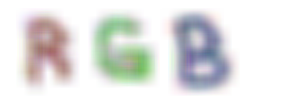
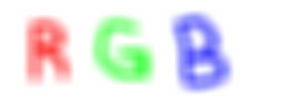
fixed the reading of values from when we read jpg's... we were using the color.RGBA() function, which returns uint32's, and we were doing a uint8 on them, but that is the WRONG way to do it... (hence we were getting weird output when reading from jpg's and saving as any format) we need to do uint8(v

diff --git a/mimage/imagematrix.go b/mimage/imagematrix.go
@@ -8,6 +8,11 @@ import "log"
 //
 type ImageMatrix [][]color.Color
 
+//
+// ConvolutionMatrix defines how we store our convolution matrices... 
+//
+type ConvolutionMatrix [][]uint8
+
 // GetKernelMatrix returns an ImageMatrix around the pixel (x,y) based on the size of the kernel we requested
 // eg. A GetKernelMatrix(5, 5, 1) will return an ImageMatrix that is built from the
 //     pixels: 4,4 5,4 6,4
@@ -59,7 +64,7 @@ func (im ImageMatrix) GetKernelMatrix(origX, origY, size int) ImageMatrix {
 //
 // ApplyConvolution apply's a convolution matrix to the current image.
 //
-func (im ImageMatrix) ApplyConvolution(cm [][]uint8) ImageMatrix {
+func (im ImageMatrix) ApplyConvolution(cm ConvolutionMatrix) ImageMatrix {
 	cmWidth := len(cm)
 	cmHeight := len(cm[0])
 

diff --git a/mimage/mimage.go b/mimage/mimage.go
@@ -37,7 +37,10 @@ func (i *MImage) ColourMatrix() ImageMatrix {
 			// Doing the below as JPG's have a color.YCbCr model, and we want
 			// to keep things in RGBA for consistency...
 			r, g, b, a := colour.RGBA()
-			column[y] = color.RGBA{uint8(r), uint8(g), uint8(b), uint8(a)}
+
+            // right shift the values by 8 bits as colour.RGBA() will return a uint32, and we want to keep the most 
+            // significant 8 bits NOT the least significant 8 bits 
+			column[y] = color.RGBA{uint8(r>>8), uint8(g>>8), uint8(b>>8), uint8(a>>8)}
 		}
 
 		colourMatrix = append(colourMatrix, column)

diff --git a/mods/gaussianBlur.go b/mods/gaussianBlur.go
@@ -4,7 +4,7 @@ import "../mimage"
 // import "image/color"
 
 // GaussianBlurConvolution ...
-var GaussianBlurConvolution = [][]uint8{
+var GaussianBlurConvolution = mimage.ConvolutionMatrix{
 									{1, 2, 1},
 									{2, 4, 2},
 									{1, 2, 1},
